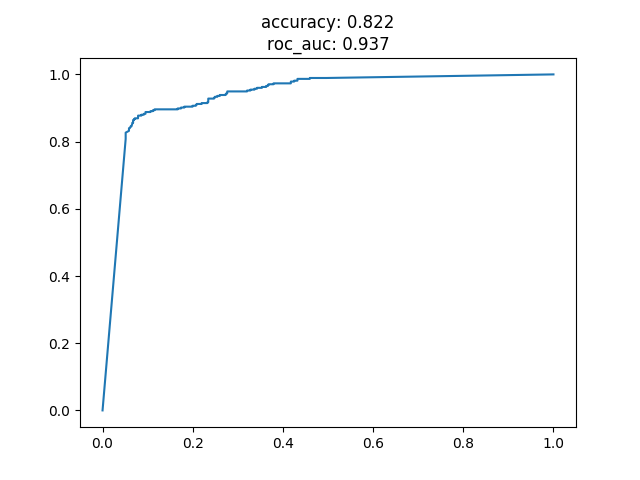
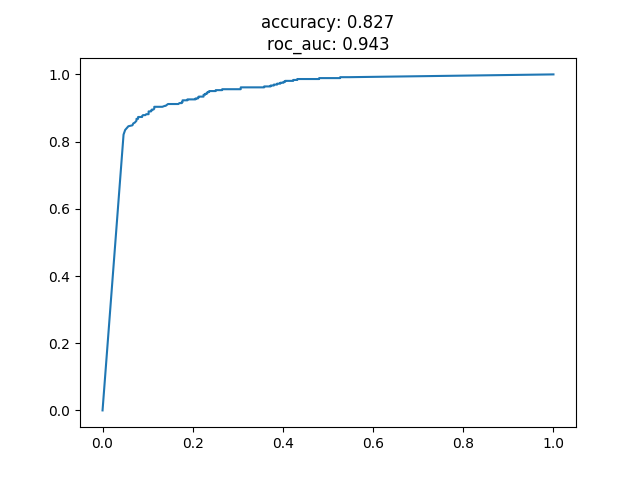
update #1

diff --git a/gaussian_naive_bayes.py b/gaussian_naive_bayes.py
@@ -59,6 +59,7 @@ def posterior_prob(mean, var, data):
 
 # train data & labels + validate data
 def predict(tr_data, tr_labels, val_data):
+    alpha = 0.0000000001
     size = val_data.shape[0]
     prior = prior_prob(tr_labels)
     mean, var = mean_variance(tr_data, tr_labels)
@@ -68,13 +69,10 @@ def predict(tr_data, tr_labels, val_data):
     for k in range(0, size):
         total_prob = 0
         for j in range(0, 2):
-            total_prob += posterior[k, j] * prior[j]
+            total_prob += posterior[k, j] * prior[j] + alpha
         prob = np.ones(2)
         for i in range(0, 2):
-            if total_prob == 0:
-                prob[i] = 0
-            else:
-                prob[i] = (posterior[k, i] * prior[i]) / total_prob
+            prob[i] = (posterior[k, i] * prior[i]) / total_prob
         labels[k] = int(prob.argmax())
         feature_prob[k] = prob[1]
     return labels, feature_prob
